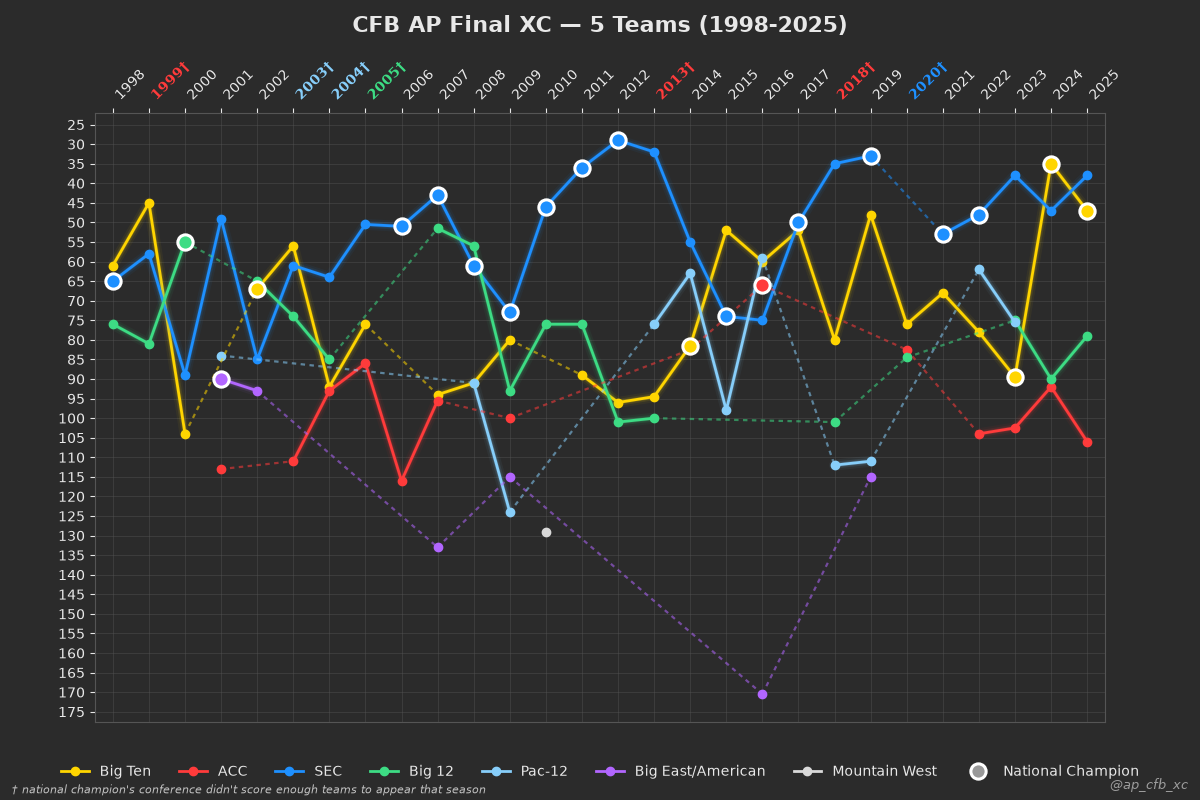
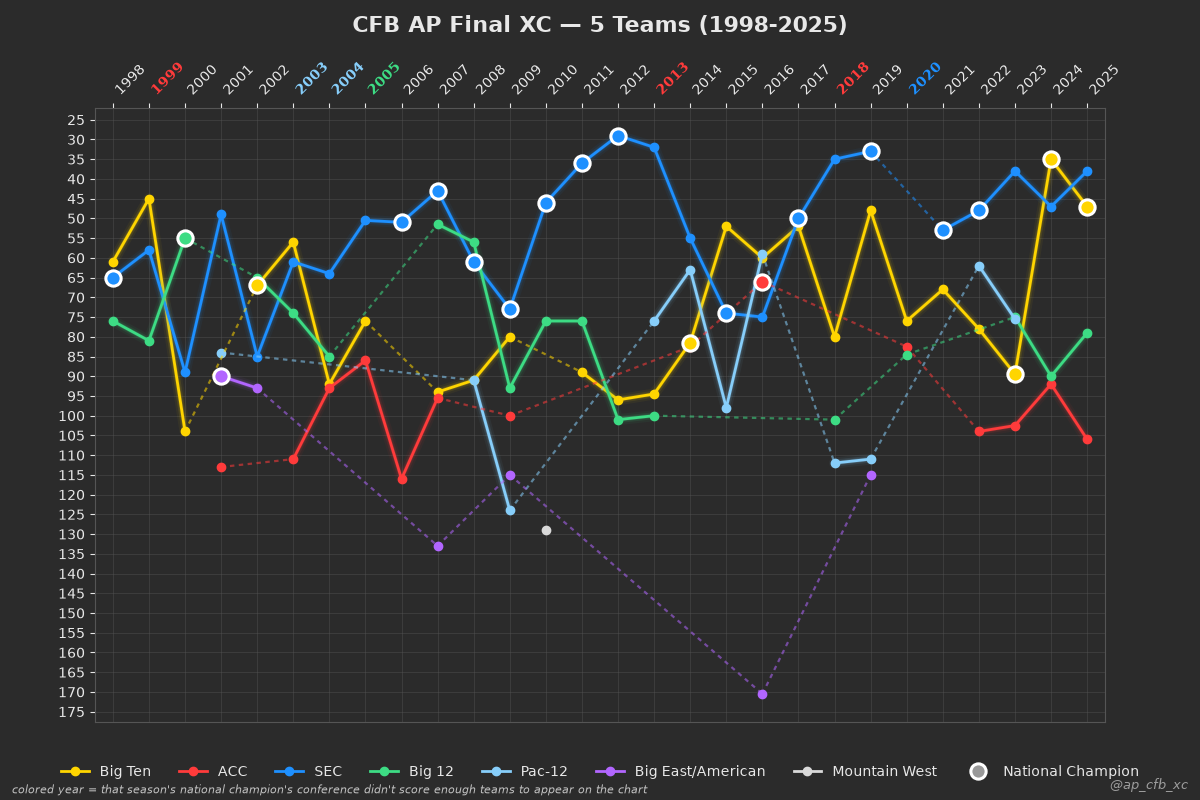
Rework the indicator for DNS national champion to be color-only

diff --git a/graph_data.py b/graph_data.py
@@ -184,9 +184,10 @@ def generate_graph(
         x_label, it's redrawn larger with a white outline - the same fill color, just marking it as
         that period's national champion's conference. Where the conference has no point there (it
         didn't score enough teams that period - DNS), the point can't be ringed, so instead that
-        x-axis tick label itself is colored to match the conference and gets a trailing "†", with a
-        footnote explaining the symbol - this is the only indication in that case, so it still
-        surfaces the champion without fabricating a data point that would compromise the scoring.
+        x-axis tick label itself is colored (and bolded) to match the conference instead, with a
+        footnote explaining what a colored year means - this is the only indication in that case,
+        so it still surfaces the champion without fabricating a data point that would compromise
+        the scoring.
     """
     # Set Week column as index
     summary_stats_df.set_index("Week", inplace=True)
@@ -259,23 +260,9 @@ def generate_graph(
     ax.tick_params(axis="x", colors=TEXT_COLOR, rotation=45)
     ax.tick_params(axis="y", colors=TEXT_COLOR)
 
-    # Pin the current (categorical) tick positions down with a FixedLocator/FixedFormatter before
-    # appending "†" to any label - matplotlib's categorical unit converter otherwise regenerates
-    # each tick's text from its own position->category mapping at draw time, silently reverting a
-    # plain Text.set_text() call (color/bold stick fine since those are separate properties, which
-    # is why this bug is easy to miss - only the appended character disappears)
-    original_labels = [tick_label.get_text() for tick_label in ax.get_xticklabels()]
-    ax.set_xticks(ax.get_xticks())
-    ax.set_xticklabels(
-        [
-            f"{label}†" if label in off_chart_champions else label
-            for label in original_labels
-        ]
-    )
-
-    for tick_label, original in zip(ax.get_xticklabels(), original_labels):
+    for tick_label in ax.get_xticklabels():
         tick_label.set_ha("left")
-        champ_conf = off_chart_champions.get(original)
+        champ_conf = off_chart_champions.get(tick_label.get_text())
         if champ_conf is not None:
             color = (
                 column_colors.get(champ_conf)
@@ -289,7 +276,8 @@ def generate_graph(
         fig.text(
             0.01,
             0.005,
-            "† national champion's conference didn't score enough teams to appear that season",
+            "Colored year = that season's national champion's conference didn't score enough "
+            "teams to appear on the chart",
             color=TEXT_COLOR,
             alpha=0.8,
             fontsize=8,
